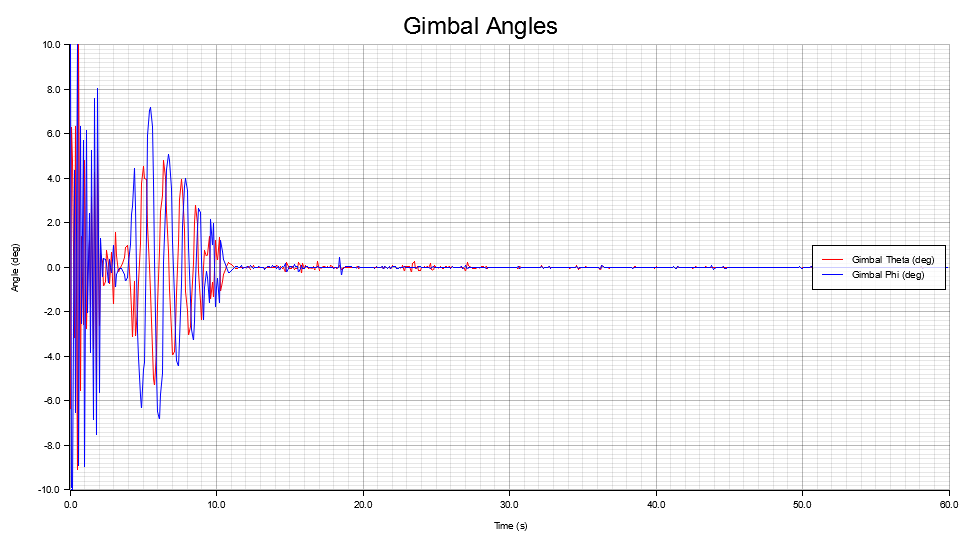
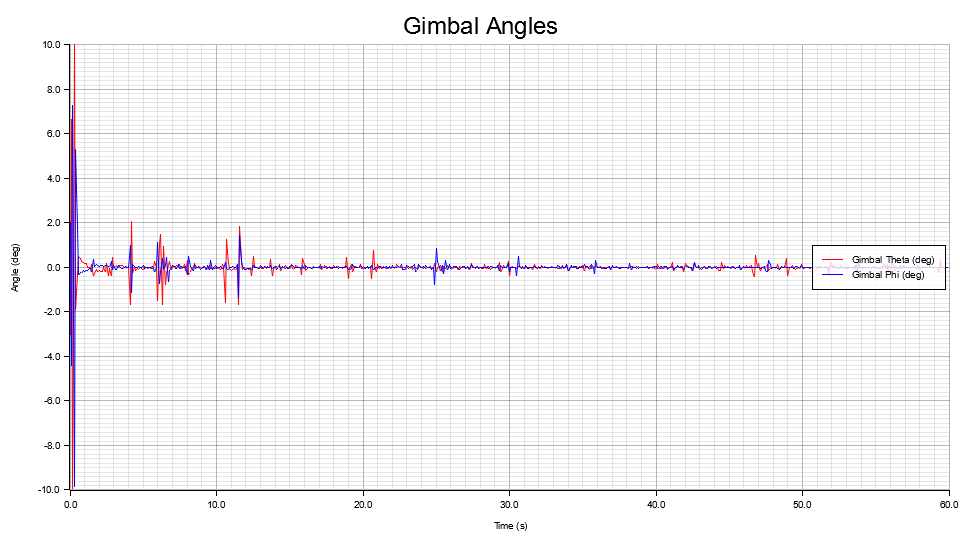
Refactor MPC QP solver and tune optimization parameters
Replaces the old trajectory cost and gradient with new QP cost and gradient functions. Replace automatic differentiation via finite difference with the analytical derivative of the quadratic program's objective function. Tune solver parameters based on max number of iterations and tolerance.

Issues:
Is faster than the old implementation for solving but the control input for thrust is noisier. May consider changing max number of iterations and tolerance to get better control but this will likely result in a slow down in computation.

Changed region(s): [[0.0625, 0.0889, 0.8438, 0.8889], [0.9062, 0.4741, 0.9375, 0.5037]]

diff --git a/Algorithms/MPC/src/mpc_crate.rs b/Algorithms/MPC/src/mpc_crate.rs
@@ -5,7 +5,9 @@ use ndarray::{Array1, Array2};
 use ndarray::s;
 use ndarray_linalg::Inverse;
 use ndarray_linalg::Norm;
+use ndarray::ArrayView1;
 use optimization_engine::{panoc::*, *};
+use std::time::Instant;
 
 pub fn dynamics(x: &Array1<f64>, u: &Array1<f64>) -> Array1<f64> {
     // let mut x_next = Array1::<f64>::zeros(x.len());
@@ -354,12 +356,13 @@ fn nmpc_step(x0: &Array1<f64>, U_init: &Vec<Array1<f64>>, xref_traj: &Vec<Array1
     // initialize xs trajectory
     let mut xs = vec![Array1::<f64>::zeros(x0.len()); N + 1];
     let mut U = U_init.clone();
+    let start_time = Instant::now();
     for _ in 0..sqp_iters {
         xs = rollout(x0, &U);
         let (A_seq, B_seq) = linearize_trajectory(&xs, &U);
         let (H, g, dU_min, dU_max, _Su, _Q_bar, _R_bar) = assemble_qp_increment(&xs, &U, &xref_traj, &A_seq, &B_seq, &Q, &R, &QN, &u_min, &u_max);
         let dU0 = Array1::<f64>::zeros(m * N);
-        let dU = solve_qp_pgd(&H, &g, &dU_min, &dU_max, &dU0, 30, alpha_pgd);
+        let dU = solve_qp_pgd(&H, &g, &dU_min, &dU_max, &dU0, 20, alpha_pgd);
         let mut flatU = Array1::<f64>::zeros(m * N);
         // flatten U
         // Flatten U into flatU
@@ -391,120 +394,82 @@ fn nmpc_step(x0: &Array1<f64>, U_init: &Vec<Array1<f64>>, xref_traj: &Vec<Array1
         // test for convergence ?
         
     }
+    // print time taken
+    let duration = start_time.elapsed();
+    println!("PGD solve frequency {:?}Hz", 1.0 / duration.as_secs_f64());
 
     (U, xs)
 }
 
 // Using OpEn to solve
 
-// create cost function (essentialy the same as true_cost)
-pub fn trajectory_cost(x0: &Array1<f64>, U: &Vec<Array1<f64>>, xref_traj: &Vec<Array1<f64>>, Q: &Array2<f64>, R: &Array2<f64>, QN: &Array2<f64>) -> f64 {
-    let xs = rollout(x0, U);
-    let N = U.len();
-    let mut cost = 0.0;
-
-    // add up stage costs
-    for k in 0..N {
-        let x_diff = &xs[k+1] - &xref_traj[k+1];
-        cost += x_diff.t().dot(Q).dot(&x_diff);
-        cost += U[k].t().dot(R).dot(&U[k]);
-    }
-
-    // add terminal cost
-    let xN_diff = &xs[N] - &xref_traj[N];
-    cost += xN_diff.t().dot(QN).dot(&xN_diff);
-
+pub fn QP_cost(H: &Array2<f64>, g: &Array1<f64>, U: &Array1<f64>) -> f64 {
+    let cost = 0.5 * U.t().dot(H).dot(U) + g.t().dot(U);
     cost
 }
-
-pub fn trajectory_cost_gradient(x0: &Array1<f64>, U: &Vec<Array1<f64>>, xref_traj: &Vec<Array1<f64>>, Q: &Array2<f64>, R: &Array2<f64>, QN: &Array2<f64>, grad_U: &mut Vec<Array1<f64>>) {
-    let N = U.len();
-    let m = U[0].len();
-    let eps = 1e-6;
-
-    // compute Jacobian via central difference
-    for k in 0..N {
-        for i in 0..m {
-            let mut u_plus = U[k].clone();
-            let mut u_minus = U[k].clone();
-            u_plus[i] += eps;
-            u_minus[i] -= eps;
-            let mut U_plus = U.clone();
-            let mut U_minus = U.clone();
-            U_plus[k] = u_plus;
-            U_minus[k] = u_minus;
-            let cost_plus = trajectory_cost(x0, &U_plus, xref_traj, Q, R, QN);
-            let cost_minus = trajectory_cost(x0, &U_minus, xref_traj, Q, R, QN);
-            grad_U[k][i] = (cost_plus - cost_minus) / (2.0 * eps);
-        }
-    }
-
-    // tbh i think we can just take matrix derivative of trajectory cost... will need to look into it
+pub fn QP_gradient(H: &Array2<f64>, g: &Array1<f64>, U_flat: &Array1<f64>, grad_U_flat: &mut Array1<f64>) {
+    let grad = H.dot(U_flat) + g;
+    grad_U_flat.assign(&grad);
 }
 
-pub fn OpEnSolve(x0: &Array1<f64>, U: &Vec<Array1<f64>>, xref_traj: &Vec<Array1<f64>>, Q: &Array2<f64>, R: &Array2<f64>, QN: &Array2<f64>, panoc_cache: &mut PANOCCache) -> (Array1<f64>, Array2<f64>) {
+pub fn OpEnSolve(
+    x0: &Array1<f64>,
+    U: &Vec<Array1<f64>>,
+    xref_traj: &Vec<Array1<f64>>,
+    Q: &Array2<f64>,
+    R: &Array2<f64>,
+    QN: &Array2<f64>,
+    panoc_cache: &mut PANOCCache,
+) -> (Array1<f64>, Array2<f64>) {
+    use ndarray::ArrayView1;
 
-    let max_iter = 5;
-    // Dimensions from U
+    // Dimensions
     let N = U.len();
     let m = U[0].len();
     let n_dim_u = N * m;
 
+    // Linearize about current rollout, assemble quadratic program
+    let xs = rollout(x0, U);
+    let (A_seq, B_seq) = linearize_trajectory(&xs, U);
+    // dU bounds are unused for OpEn; pass zeros
+    let (H, g, _dU_min, _dU_max, _Su, _Q_bar, _R_bar) =
+        assemble_qp_increment(&xs, U, xref_traj, &A_seq, &B_seq, Q, R, QN,
+                              &Array1::zeros(m), &Array1::zeros(m));
 
-    // Helpers to reshape flattened vectors
-    let unflatten = |u_slice: &[f64]| -> Vec<Array1<f64>> {
-        let mut out = Vec::with_capacity(N);
-        for k in 0..N {
-            let start = k * m;
-            let end = start + m;
-            out.push(Array1::from(u_slice[start..end].to_vec()));
-        }
-        out
-    };
-    let write_flat = |vecs: &Vec<Array1<f64>>, out: &mut [f64]| {
-        for k in 0..N {
-            let start = k * m;
-            out[start..start + m].copy_from_slice(vecs[k].as_slice().unwrap());
-        }
-    };
-
-    // Gradient closure over slices
+    // Gradient (H u + g) and cost (0.5 u^T H u + g^T u) on flat slices
     let df = |u_slice: &[f64], grad_slice: &mut [f64]| -> Result<(), SolverError> {
-        let Uv = unflatten(u_slice);
-        let mut grad_vec: Vec<Array1<f64>> = vec![Array1::<f64>::zeros(m); N];
-        trajectory_cost_gradient(x0, &Uv, xref_traj, Q, R, QN, &mut grad_vec);
-        write_flat(&grad_vec, grad_slice);
+        let u_view = ArrayView1::from(u_slice);
+        let grad = H.dot(&u_view) + &g;
+        grad_slice.copy_from_slice(grad.as_slice().unwrap());
         Ok(())
     };
-
-    // Cost closure over slices
     let f = |u_slice: &[f64], cost: &mut f64| -> Result<(), SolverError> {
-        let Uv = unflatten(u_slice);
-        *cost = trajectory_cost(x0, &Uv, xref_traj, Q, R, QN);
+        let u_view = ArrayView1::from(u_slice);
+        let Hu = H.dot(&u_view);
+        *cost = 0.5 * u_view.dot(&Hu) + g.dot(&u_view);
         Ok(())
     };
 
-    // Box bounds (must live long enough)
+    // Box bounds on U (same per stage here)
     let mut u_min_flat: Vec<f64> = Vec::with_capacity(n_dim_u);
     let mut u_max_flat: Vec<f64> = Vec::with_capacity(n_dim_u);
-    for i in 0..n_dim_u {
-        if i % 3 == 2 {
-            // thrust
-            u_min_flat.push(0.0);
-            u_max_flat.push(20.0);
-        } else {
-            // gimbals (rad)
-            u_min_flat.push((-10.0_f64).to_radians());
-            u_max_flat.push(( 10.0_f64).to_radians());
-        }
+    for _k in 0..N {
+        // [gimbal_theta, gimbal_phi, thrust]
+        u_min_flat.push((-10.0_f64).to_radians());
+        u_max_flat.push(( 10.0_f64).to_radians());
+        u_min_flat.push((-10.0_f64).to_radians());
+        u_max_flat.push(( 10.0_f64).to_radians());
+        u_min_flat.push(0.0);
+        u_max_flat.push(20.0);
     }
     let bounds = constraints::Rectangle::new(
-        Some(&u_min_flat),
-        Some(&u_max_flat),
+        Some(&u_min_flat[..]),
+        Some(&u_max_flat[..]),
     );
 
+    // Problem and optimizer (reuse cache)
     let problem = Problem::new(&bounds, df, f);
-    let mut panoc = PANOCOptimizer::new(problem, panoc_cache).with_max_iter(max_iter);
+    let mut panoc = PANOCOptimizer::new(problem, panoc_cache).with_max_iter(150);
 
     // Initial guess flattened from U
     let mut u_init_flat: Vec<f64> = Vec::with_capacity(n_dim_u);
@@ -512,13 +477,16 @@ pub fn OpEnSolve(x0: &Array1<f64>, U: &Vec<Array1<f64>>, xref_traj: &Vec<Array1<
         u_init_flat.extend_from_slice(U[k].as_slice().unwrap());
     }
 
-    let status = panoc.solve(&mut u_init_flat).unwrap();
-    // println!("Solver status: {:?}", status);
+    // Solve
+    let _status = panoc.solve(&mut u_init_flat).unwrap();
+    println!("OpEn QP solve frequency: {:?}Hz, After {:?} iterations", 1.0 / _status.solve_time().as_secs_f64(), _status.iterations());
 
-    // First control to apply
+    // Return first control and full sequence reshaped
     let u_seq = Array1::from(u_init_flat);
-    let u_apply = u_seq.slice(s![0..3]).to_owned();
-    (u_apply, Array2::from_shape_vec((N, m), u_seq.to_vec()).unwrap())
+    let u_apply = u_seq.slice(s![0..m]).to_owned();
+    let U_seq = Array2::from_shape_vec((N, m), u_seq.to_vec()).unwrap();
+
+    (u_apply, U_seq)
 }
 
 // Main MPC function to be called externally

diff --git a/Algorithms/MPC/src/main.rs b/Algorithms/MPC/src/main.rs
@@ -64,8 +64,8 @@ fn main() {
     let mut x_history = Vec::with_capacity(iters);
     let mut u_history = Vec::with_capacity(iters);
 
-    let tolerance = 1e-6;
-    let lbfgs_memory = 10;
+    let tolerance = 5e-4;
+    let lbfgs_memory = 20;
     let max_iter = 1;
     let n_dim_u = m * n_steps;
     let mut panoc_cache = optimization_engine::panoc::PANOCCache::new(n_dim_u, tolerance, lbfgs_memory);
@@ -79,7 +79,7 @@ fn main() {
         // let mut u_warm_vec: Vec<Array1<f64>> = u_warm.axis_iter(ndarray::Axis(0)).map(|row| row.to_owned()).collect();
         // let (u_warm_vec, x_new, u_apply) = mpc_main(&x, &mut u_warm_vec, &xref_traj_vec, &q, &r, &qn, &u_min, &u_max, 2, 0.05);
         
-        // solve using OpEn
+        // OR we solve using OpEn
         let (u_apply, u_warm) = mpc_crate::OpEnSolve(&x, &u_warm.axis_iter(ndarray::Axis(0)).map(|row| row.to_owned()).collect(), &xref_traj_vec, &q, &r, &qn, &mut panoc_cache);
         
         u_history.push(u_apply.clone());
